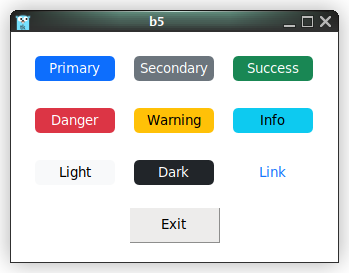
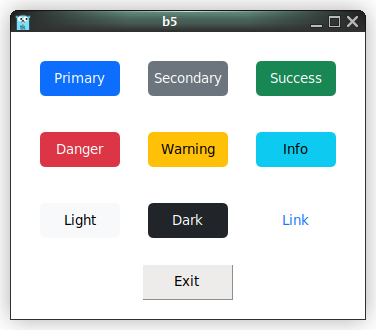
improve/fix documentation...

diff --git a/b5/b5.go b/b5/b5.go
@@ -15,9 +15,9 @@ import (
 //TODO const semantics = None?, Primary, Secondary, Success, Info, Warning, Danger, Dark, Light, Link
 
 const (
-	buttonFocusDecoratorCorner = 9 / 96.   // The rounded corner is 9px on a 96 DPI display.
-	buttonFocusDecorator       = 4 / 96.   // 4px on a 96 DPI display.
-	buttonTileHeight           = 40 / 135. // 40px on a 135 DPI display
+	buttonFocusDecoratorCorner = 9 / 96.  // The rounded corner is 9px on a 96 DPI display.
+	buttonFocusDecorator       = 4 / 96.  // 4px on a 96 DPI display.
+	buttonTileHeight           = 27 / 96. // 27px on a 96 DPI display
 )
 
 var (
@@ -129,13 +129,13 @@ func ButtonStyle(style string, scheme ButtonColors, background string) string {
 }
 
 // package main
-// 
+//
 // import (
 // 	"fmt"
 // 	. "modernc.org/tk9.0"
 // 	"modernc.org/tk9.0/b5"
 // )
-// 
+//
 // func main() {
 // 	StyleThemeUse("default")
 // 	opts := Opts{Padx("1m"), Pady("2m"), Ipadx("1m"), Ipady("1m")}

diff --git a/README.md b/README.md
@@ -473,6 +473,8 @@ Technology preview of a Bootstrap5-like theme button items (_examples/b5.go).
     24		App.Configure(Background("#fff")).Wait()
     25	}
 
+![linux](_examples/linux.png "linux")
+
 [![Go Reference](https://pkg.go.dev/badge/modernc.org/tk9.0.svg)](https://pkg.go.dev/modernc.org/tk9.0)
 
 [Tutorial: Modifying a ttk button's style]: https://wiki.tcl-lang.org/page/Tutorial%3A+Modifying+a+ttk+button%27s+style
